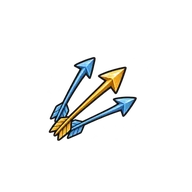
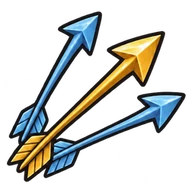
[디자인팀] 카드 아이콘 8종 여백 자르기, 카드 시안에 반영
Claude-Session: https://claude.ai/code/session_013M9CK1DXpnv28ZtJdsmhuH

diff --git a/teams/2-디자인/preview/item-cards.html b/teams/2-디자인/preview/item-cards.html
@@ -18,7 +18,7 @@ h1{font-size:19px;margin:0 0 4px}p{color:var(--sub);margin:0 0 10px;max-width:90
 .card:hover,.card:focus-visible{transform:translate(-50%,-50%) scale(1.03);border-color:var(--gold);outline:none}
 .card.pick{transform:translate(-50%,-50%) scale(1.06);border-color:var(--gold)}.card.gone{opacity:0}
 .ic{width:12.3cqw;height:12.3cqw;border-radius:50%;background:#141218;display:grid;place-items:center}
-.ic canvas{width:11.4cqw;height:11.4cqw}
+.ic canvas{width:10.6cqw;height:10.6cqw}
 .nm{font-weight:800;font-size:1.9cqw;margin-top:.9cqw;text-align:center;line-height:1.15;max-width:17cqw}
 .val{font-weight:800;font-size:2.8cqw;color:var(--gold);margin-top:.3cqw}
 .bad{font-size:1.5cqw;color:#FF8A80;min-height:2cqw}
@@ -27,13 +27,16 @@ h1{font-size:19px;margin:0 0 4px}p{color:var(--sub);margin:0 0 10px;max-width:90
 .hud{position:absolute;left:6%;top:24%;display:flex;gap:.8cqw}.hud img,.hud canvas{width:3.3cqw;height:3.3cqw}
 </style></head><body>
 <h1>아이템 카드 3장 고르기 — 화면 시안 (폰 가로 844×390)</h1>
-<p>카드를 눌러 골라 보세요(PC는 1·2·3 키). 아이콘은 자리 확인용 임시 그림이고, 실제 아이콘 8종은 GPT로 그려 바꿔요. 숫자는 화폐 배율에 따라 달라져요(item-choice.md 수치).</p>
+<p>카드를 눌러 골라 보세요(PC는 1·2·3 키). 아이콘 8종은 GPT로 그린 실제 그림이에요(18차). 숫자는 화폐 배율에 따라 달라져요(item-choice.md 수치).</p>
 <div class="bar"><button class="b" id="again">다시 (다른 화폐)</button></div>
 <div class="wrap" id="w"><div class="dim"></div><div class="cur" id="cur"></div><div class="title">하나를 골라요</div><div class="cards" id="cards"></div><div class="hud" id="hud"></div></div>
+<h2 style="font-size:15px;margin:16px 0 6px">카드 아이콘 8종 (게임 카드 크기)</h2>
+<div style="display:flex;flex-wrap:wrap;gap:10px"><figure style="margin:0;background:#1E1C1F;border:2px solid #8C6B32;border-radius:10px;padding:8px;text-align:center;width:112px"><img src="cards/card-atk.webp" width="96" height="96" alt="공격력" style="background:#141218;border-radius:50%"><figcaption style="font-size:12px;color:#F2E3C6">공격력</figcaption></figure><figure style="margin:0;background:#1E1C1F;border:2px solid #8C6B32;border-radius:10px;padding:8px;text-align:center;width:112px"><img src="cards/card-aspd.webp" width="96" height="96" alt="공격 속도" style="background:#141218;border-radius:50%"><figcaption style="font-size:12px;color:#F2E3C6">공격 속도</figcaption></figure><figure style="margin:0;background:#1E1C1F;border:2px solid #8C6B32;border-radius:10px;padding:8px;text-align:center;width:112px"><img src="cards/card-small.webp" width="96" height="96" alt="작아지기" style="background:#141218;border-radius:50%"><figcaption style="font-size:12px;color:#F2E3C6">작아지기</figcaption></figure><figure style="margin:0;background:#1E1C1F;border:2px solid #8C6B32;border-radius:10px;padding:8px;text-align:center;width:112px"><img src="cards/card-big.webp" width="96" height="96" alt="커지기" style="background:#141218;border-radius:50%"><figcaption style="font-size:12px;color:#F2E3C6">커지기</figcaption></figure><figure style="margin:0;background:#1E1C1F;border:2px solid #8C6B32;border-radius:10px;padding:8px;text-align:center;width:112px"><img src="cards/card-move.webp" width="96" height="96" alt="이동 속도" style="background:#141218;border-radius:50%"><figcaption style="font-size:12px;color:#F2E3C6">이동 속도</figcaption></figure><figure style="margin:0;background:#1E1C1F;border:2px solid #8C6B32;border-radius:10px;padding:8px;text-align:center;width:112px"><img src="cards/card-pierce.webp" width="96" height="96" alt="관통 쏘기" style="background:#141218;border-radius:50%"><figcaption style="font-size:12px;color:#F2E3C6">관통 쏘기</figcaption></figure><figure style="margin:0;background:#1E1C1F;border:2px solid #8C6B32;border-radius:10px;padding:8px;text-align:center;width:112px"><img src="cards/card-split.webp" width="96" height="96" alt="세 갈래 쏘기" style="background:#141218;border-radius:50%"><figcaption style="font-size:12px;color:#F2E3C6">세 갈래 쏘기</figcaption></figure><figure style="margin:0;background:#1E1C1F;border:2px solid #8C6B32;border-radius:10px;padding:8px;text-align:center;width:112px"><img src="cards/card-skill.webp" width="96" height="96" alt="스킬 +1" style="background:#141218;border-radius:50%"><figcaption style="font-size:12px;color:#F2E3C6">스킬 +1</figcaption></figure></div>
 <script>
 const CUR=[['£',5.0],['$',2.9],['₩',1.6],['€',3.4],['¥',2.2]];
 const K={atk:['공격력',m=>'+'+Math.round(8*m)+'%',''],aspd:['공격 속도',m=>'−'+Math.round(6*m)+'%',''],small:['작아지기',m=>'×0.7','⚔ −15%'],big:['커지기',m=>'×1.4','♥ ↓'],move:['이동 속도',m=>'+'+Math.round(5*m)+'%',''],pierce:['관통 쏘기',m=>m>=3?'2':'1',''],split:['세 갈래 쏘기',m=>'3',' ×0.5'],skill:['스킬 +1',m=>'+1','']};
-function icon(cv,k){const x=cv.getContext('2d');x.scale(cv.width/100,cv.height/100);x.lineCap='round';x.lineJoin='round';
+const IMG={};['atk','aspd','small','big','move','pierce','split','skill'].forEach(k=>{const i=new Image();i.src='cards/card-'+k+'.webp';IMG[k]=i});
+function icon(cv,k){const go=()=>{const x=cv.getContext('2d');x.clearRect(0,0,cv.width,cv.height);x.drawImage(IMG[k],0,0,cv.width,cv.height)};if(IMG[k].complete&&IMG[k].naturalWidth){go();return}IMG[k].onload=go;IMG[k].addEventListener('load',go);return;const x=cv.getContext('2d');x.scale(cv.width/100,cv.height/100);x.lineCap='round';x.lineJoin='round';
  const G='#FFD166',S='#C9CED6',B='#5FB4EE',R='#F2452E';x.lineWidth=7;
  const sword=(a,col)=>{x.save();x.translate(50,52);x.rotate(a);x.strokeStyle=col;x.beginPath();x.moveTo(0,28);x.lineTo(0,-30);x.stroke();x.strokeStyle=G;x.beginPath();x.moveTo(-12,18);x.lineTo(12,18);x.stroke();x.restore()};
  const arrow=(x1,y1,x2,y2,c)=>{x.strokeStyle=c;x.beginPath();x.moveTo(x1,y1);x.lineTo(x2,y2);x.stroke();const a=Math.atan2(y2-y1,x2-x1);x.beginPath();x.moveTo(x2,y2);x.lineTo(x2-12*Math.cos(a-.5),y2-12*Math.sin(a-.5));x.moveTo(x2,y2);x.lineTo(x2-12*Math.cos(a+.5),y2-12*Math.sin(a+.5));x.stroke()};
@@ -50,7 +53,7 @@ let run=0,held={};
 function deal(){run++;const [sym,m]=CUR[run%CUR.length];const w=document.getElementById('w');w.classList.remove('on');
  document.getElementById('cur').innerHTML=`<span class="coin">${sym}</span>${sym} ×${m.toFixed(1)}${m>=3?' ✦':''}`;
  const pool=Object.keys(K).filter(k=>!(k==='skill'&&m<3)&&(held[k]||0)<2&&!(k==='small'&&held.big)&&!(k==='big'&&held.small));
- const pick=[];while(pick.length<3){const k=pool[(run*7+pick.length*3+pick.length*pick.length)%pool.length];if(!pick.includes(k))pick.push(k);else pool.push(pool.shift())}
+ const pick=[];while(pick.length<3){const k=pool[(run*5+pick.length*3+1)%pool.length];if(!pick.includes(k))pick.push(k);else pool.push(pool.shift())}
  const C=document.getElementById('cards');C.innerHTML='';let ready=false;setTimeout(()=>ready=true,300);
  pick.forEach((k,i)=>{const [nm,vf,bad]=K[k];const b=document.createElement('button');b.className='card'+(m>=3?' rich':'');b.style.left=(28+i*22)+'%';b.style.transitionDelay=(i*.06)+'s';
   b.innerHTML=`<div class="pips">${[0,1].map(j=>`<i class="${j<(held[k]||0)?'f':''}"></i>`).join('')}</div><div class="ic"><canvas width="200" height="200"></canvas></div><div class="nm">${nm}</div><div class="val">${vf(m)}</div><div class="bad">${bad}</div><span class="key">${i+1}</span>`;

diff --git a/teams/2-디자인/작업기록.md b/teams/2-디자인/작업기록.md
@@ -205,3 +205,4 @@
 - 사용자 아이폰 캡처 '저 번짐을 없애라고': 장판·고리 둘레 halo·안쪽 빛 채움 규칙 지움(설치 옛 표 '안쪽 은은한 빛' 삭제, 숨쉬는 문양은 선만).
 - 사용자 '끌어서 가는 곳까지는 이동해야지': 60개 상징 물체에 이동 방식 칸 추가(날아감 포물선/굴러감/미끄러짐/솟았다 떨어짐/장수와 함께), 2D는 대표 그림 축소판 이동.
 - 아이템 카드 3장 고르기(GDD 4-3): ui.md 화면 규격 추가, 시안 preview/item-cards.html, 카드 아이콘 8종 GPT 지시서·run.py(round18-cards, GPT 2번) — 아직 안 돌림.
+- 카드 아이콘 8종(팀장 dhk) 점검: 뜻 바로 읽힘, 여백 잘라 꽉 차게 다시 저장(원본 out-orig/), 장수 실루엣은 특정 나라 아닌 금빛 기사라 그대로. 시안에 실제 아이콘 반영.
